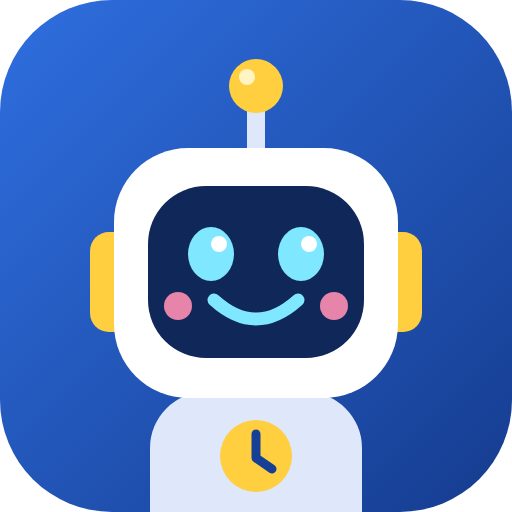
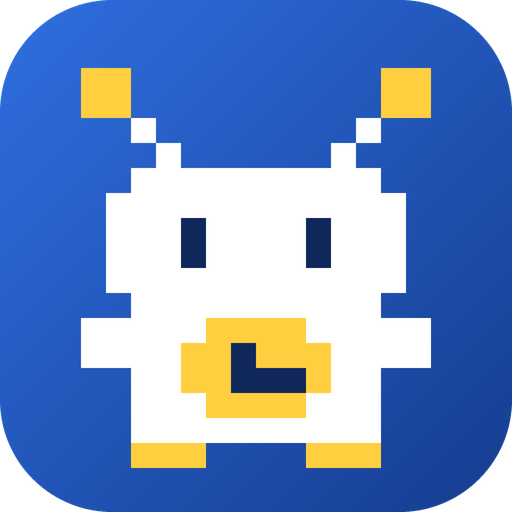
Nuova icona: robottino a pixel con due antenne e orologio sulla pancia
Stile a quadrettoni ispirato a Claude Code, ma con forma e colori nostri
(bianco e giallo su sfondo blu). Aggiornati anche i PNG per l'installazione
e il robot che dondola durante il caricamento.

diff --git a/app/index.html b/app/index.html
@@ -25,36 +25,41 @@
 <body>
   <a class="salta" href="#contenuto">Vai all'orario</a>
 
-  <!-- Caricamento: il robot sorridente (la mascotte dell'app, come nell'icona) dondola mentre l'app si prepara.
+  <!-- Caricamento: il robottino a pixel (la mascotte dell'app, come nell'icona) dondola mentre l'app si prepara.
        È disegnato qui dentro, così compare subito senza aspettare altri file. In caso di errore
-       app.js sostituisce il contenuto con il messaggio e il pulsante "Riprova". -->
+       app.js sostituisce il contenuto con il messaggio e il pulsante "Riprova".
+       Le misure sono in quadretti (griglia 16×16, la stessa di icone/icona.svg). -->
   <div id="caricamento" class="caricamento" role="status">
-    <svg class="robot-caricamento" viewBox="70 40 372 520" aria-hidden="true" focusable="false">
-      <ellipse class="robot-ombra" cx="256" cy="540" rx="110" ry="14"/>
+    <svg class="robot-caricamento" viewBox="-1.5 -1.5 19 19.5" shape-rendering="crispEdges" aria-hidden="true" focusable="false">
+      <ellipse class="robot-ombra" cx="8" cy="16.9" rx="5.5" ry=".5"/>
       <g class="robot-tutto">
-        <!-- corpo con l'orologio: la lancetta gira -->
-        <rect x="150" y="392" width="212" height="120" rx="48" fill="#dfe8fb"/>
-        <circle cx="256" cy="452" r="36" fill="#ffcf3f"/>
-        <path class="robot-lancetta" d="M256 452v-22" stroke="#163f96" stroke-width="9" stroke-linecap="round"/>
-        <circle cx="256" cy="452" r="6" fill="#163f96"/>
-        <!-- antenna con la luce che pulsa -->
-        <rect x="247" y="96" width="18" height="64" rx="9" fill="#dfe8fb"/>
-        <circle class="robot-luce" cx="256" cy="86" r="27" fill="#ffcf3f"/>
-        <!-- orecchie -->
-        <rect x="90" y="232" width="42" height="100" rx="19" fill="#ffcf3f"/>
-        <rect x="380" y="232" width="42" height="100" rx="19" fill="#ffcf3f"/>
-        <!-- testa e viso -->
-        <rect x="114" y="148" width="284" height="250" rx="74" fill="#fff"/>
-        <rect x="148" y="186" width="216" height="172" rx="58" fill="#10275a"/>
+        <!-- antenne: le palline gialle pulsano -->
+        <rect x="3" y="2" width="1" height="1" fill="#fff"/>
+        <rect x="12" y="2" width="1" height="1" fill="#fff"/>
+        <rect x="4" y="3" width="1" height="1" fill="#fff"/>
+        <rect x="11" y="3" width="1" height="1" fill="#fff"/>
+        <rect class="robot-luce" x="1" y="0" width="2" height="2" fill="#ffcf3f"/>
+        <rect class="robot-luce" x="13" y="0" width="2" height="2" fill="#ffcf3f"/>
+        <!-- corpo, con le braccine -->
+        <rect x="3" y="4" width="10" height="1" fill="#fff"/>
+        <rect x="2" y="5" width="12" height="4" fill="#fff"/>
+        <rect x="3" y="9" width="10" height="1" fill="#fff"/>
+        <rect x="1" y="10" width="14" height="2" fill="#fff"/>
+        <rect x="3" y="12" width="10" height="3" fill="#fff"/>
+        <!-- occhi a stanghetta: sbattono le palpebre -->
         <g class="robot-occhi">
-          <ellipse cx="211" cy="254" rx="23" ry="27" fill="#7fe7ff"/>
-          <ellipse cx="301" cy="254" rx="23" ry="27" fill="#7fe7ff"/>
-          <circle cx="219" cy="244" r="8" fill="#fff"/>
-          <circle cx="309" cy="244" r="8" fill="#fff"/>
+          <rect x="5" y="6" width="1" height="2" fill="#10275a"/>
+          <rect x="10" y="6" width="1" height="2" fill="#10275a"/>
         </g>
-        <circle cx="178" cy="306" r="14" fill="#ff8fb1" opacity=".9"/>
-        <circle cx="334" cy="306" r="14" fill="#ff8fb1" opacity=".9"/>
-        <path d="M214 300 Q256 338 298 300" stroke="#7fe7ff" stroke-width="13" stroke-linecap="round" fill="none"/>
+        <!-- orologio sulla pancia: la lancetta lunga gira -->
+        <rect x="6" y="10" width="4" height="1" fill="#ffcf3f"/>
+        <rect x="5" y="11" width="6" height="2" fill="#ffcf3f"/>
+        <rect x="6" y="13" width="4" height="1" fill="#ffcf3f"/>
+        <rect x="7" y="12" width="3" height="1" fill="#10275a"/>
+        <rect class="robot-lancetta" x="7" y="11" width="1" height="1.5" fill="#10275a"/>
+        <!-- piedi -->
+        <rect x="3" y="15" width="3" height="1" fill="#ffcf3f"/>
+        <rect x="10" y="15" width="3" height="1" fill="#ffcf3f"/>
       </g>
     </svg>
     <p class="testo-caricamento">Preparo l'orario<span class="puntini" aria-hidden="true"><span>.</span><span>.</span><span>.</span></span></p>

diff --git a/app/css/app.css b/app/css/app.css
@@ -105,7 +105,7 @@ select {
   border-radius: 10px; background: var(--superficie); max-width: 100%;
 }
 
-/* ---------- Caricamento: il robot sorridente (vedi index.html) ---------- */
+/* ---------- Caricamento: il robottino a pixel (vedi index.html) ---------- */
 /* Copre tutta la pagina con lo stesso blu dell'icona; quando l'app è pronta sfuma (classe "uscita") */
 .caricamento {
   position: fixed; inset: 0; z-index: 100;
@@ -119,11 +119,11 @@ select {
 .robot-caricamento { width: min(46vw, 210px); height: auto; overflow: visible; }
 .testo-caricamento { margin: 0; font-size: 1.2rem; font-weight: 600; letter-spacing: .02em; }
 
-/* Il robot dondola su e giù, inclinandosi un poco */
-.robot-tutto { transform-box: view-box; transform-origin: 256px 500px; animation: robot-dondola 1.6s ease-in-out infinite; }
+/* Il robot dondola su e giù, inclinandosi un poco (le misure sono in quadretti del disegno) */
+.robot-tutto { transform-box: view-box; transform-origin: 8px 16px; animation: robot-dondola 1.6s ease-in-out infinite; }
 @keyframes robot-dondola {
   0%, 100% { transform: translateY(0) rotate(-3deg); }
-  50% { transform: translateY(-22px) rotate(3deg); }
+  50% { transform: translateY(-.9px) rotate(3deg); }
 }
 /* L'ombra si stringe quando il robot sale */
 .robot-ombra { fill: rgba(0, 0, 0, .22); transform-box: fill-box; transform-origin: center; animation: robot-ombra 1.6s ease-in-out infinite; }
@@ -131,11 +131,11 @@ select {
 /* Sbatte le palpebre ogni tanto */
 .robot-occhi { transform-box: fill-box; transform-origin: center; animation: robot-sbatte 3.2s infinite; }
 @keyframes robot-sbatte { 0%, 90%, 100% { transform: scaleY(1); } 94% { transform: scaleY(.1); } }
-/* La luce dell'antenna pulsa */
+/* Le palline delle antenne pulsano */
 .robot-luce { transform-box: fill-box; transform-origin: center; animation: robot-luce .8s ease-in-out infinite alternate; }
 @keyframes robot-luce { from { transform: scale(.9); fill: #ffcf3f; } to { transform: scale(1.15); fill: #fff4c2; } }
-/* La lancetta dell'orologio gira */
-.robot-lancetta { transform-box: view-box; transform-origin: 256px 452px; animation: robot-gira 2s linear infinite; }
+/* La lancetta dell'orologio gira intorno al centro del quadrante */
+.robot-lancetta { shape-rendering: geometricPrecision; transform-box: view-box; transform-origin: 7.5px 12.5px; animation: robot-gira 2s linear infinite; }
 @keyframes robot-gira { to { transform: rotate(360deg); } }
 /* I puntini di "Preparo l'orario..." si accendono uno dopo l'altro */
 .puntini span { animation: puntino 1.2s infinite; opacity: .2; }
